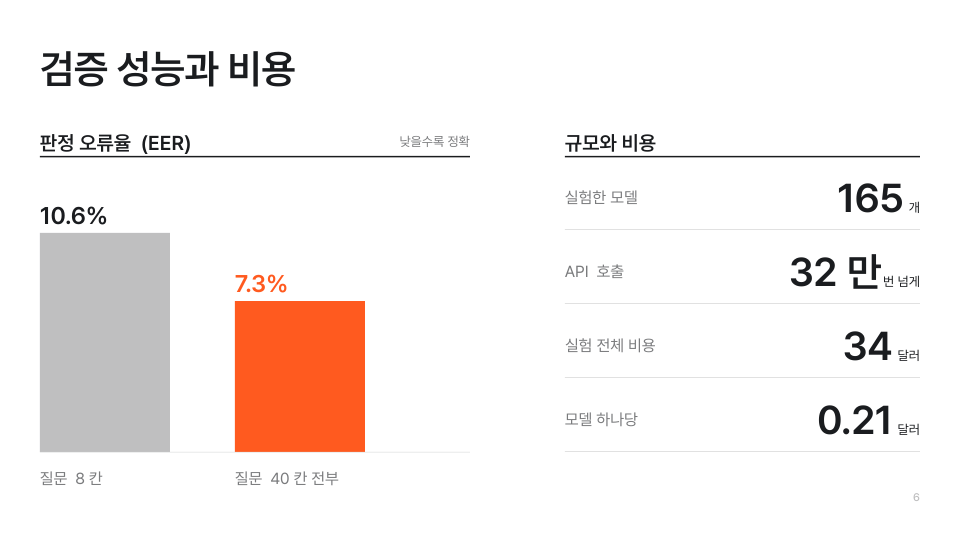
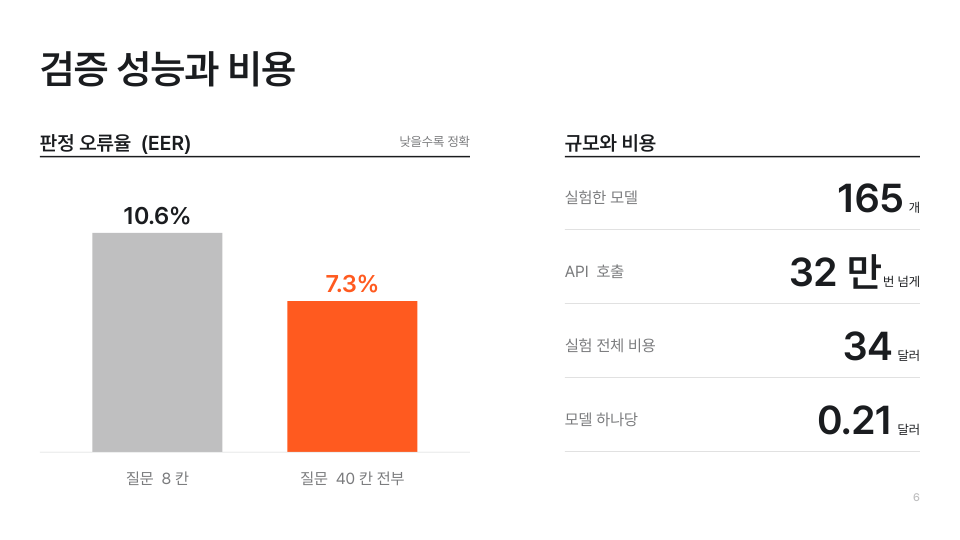
bars: centre the group and its labels; reconcile sees paragraph alignment
From the last design check of the GDGoC talk deck. The user had moved the
two EER bars off the left edge and centred the values over them; the names
under the bars were still left-aligned and the pair sat 0.30in/0.80in off
centre.

- bars: the bar group is centred in its column; value and name boxes are
  centred on each bar's axis and clipped at both chart edges (extends the
  right-edge clip from 4e81248 to the left side).
- lint_deck: chart- tags may be centre-aligned.
- reconcile.py: the deep fingerprint includes paragraph alignment. The
  user's switch of the bar values to centred alignment did not show up in
  it before and was only found by a raw XML diff.
- SKILL.md: notes from the final check (one caption register, no caption
  repeating the part divider, no data-free motif on dividers, avoid slogan
  shapes in body text too).

Claude-Session: https://claude.ai/code/session_01HRTwYzMt5EEeruZ5rPXrb7

Changed region(s): [[0.0312, 0.3852, 0.4375, 0.9185]]

diff --git a/scripts/build.py b/scripts/build.py
@@ -541,18 +541,23 @@ def bars(d, s, m, sl):
     n = len(items)
     bw = min(span_w(2), cw / (n * 1.5 - 0.5))
     gap = bw * 0.5
+    # 막대 묶음은 칸 가운데에 둔다 — 2026-10-27 사용자 편집(발표 덱 14쪽): 왼쪽 끝에 붙어 있던 막대를 안쪽으로 옮기고
+    # 값을 막대 가운데로 맞췄다. 막대가 칸을 다 채우면(옆 표 없이 5개 이상) 묶음 폭 = 칸 폭이라 그대로 왼쪽 끝에서 시작한다
+    gx = x0 + max(0.0, (cw - (n * bw + (n - 1) * gap)) / 2)
     for i, (it, v) in enumerate(zip(items, vals)):
-        x = x0 + i * (bw + gap)
+        x = gx + i * (bw + gap)
         h = max(0.0, v / vmax) * H
         on = hi is not None and i == hi
         d.bar(s, x, base - h, bw, h, "accent" if on else ("faint" if hi is not None else "muted"))
         txt = str(it.get("text") or (f"{it.get('value')}{it.get('unit', '')}"))
-        # 막대가 칸 폭을 다 채우면(옆 표 없이 5개 이상) 마지막 막대의 글 칸이 오른쪽 여백을 넘는다 — 칸 끝에서 자른다
-        tw_ = min(bw + gap * 0.9, x0 + cw - x)
-        d.text(s, "h2", x, base - h - lab_h, tw_, lab_h - 4, txt,
-               color="accent" if on else "figure", anchor="bottom", tag="chart-value")
-        d.text(s, "body", x, base + 8, tw_, 20, str(it.get("label", "")), color="muted",
-               tag="chart-cat")
+        # 값은 막대 위, 이름은 막대 아래 — 둘 다 막대 가운데 축에 맞춘다. 글 칸은 막대 축을 중심으로 좌우 같은 폭이고
+        # 칸 양 끝을 넘지 않게 자른다(4e81248 의 오른쪽 자르기를 왼쪽에도)
+        cx = x + bw / 2
+        half = min((bw + gap * 0.9) / 2, cx - x0, x0 + cw - cx)
+        d.text(s, "h2", cx - half, base - h - lab_h, 2 * half, lab_h - 4, txt,
+               color="accent" if on else "figure", align="center", anchor="bottom", tag="chart-value")
+        d.text(s, "body", cx - half, base + 8, 2 * half, 20, str(it.get("label", "")), color="muted",
+               align="center", tag="chart-cat")
     d.table_rule(s, x0, base, cw)
     if side:
         rows = [(r.get("label", ""), r.get("value", ""), r.get("unit")) for r in side.get("rows", [])]

diff --git a/scripts/reconcile.py b/scripts/reconcile.py
@@ -77,7 +77,14 @@ def dump_deep(path):
                 pass
             anchor, cols = "", []
             if sh.has_text_frame:
-                anchor = sh.text_frame._txBody.bodyPr.get("anchor") or "t"
+                # 세로 정렬 + 문단 가로 정렬. 가로 정렬만 바꾼 편집(막대 위 값을 가운데로, 2026-10-27)도 잡는다
+                algns = []
+                for para in sh.text_frame.paragraphs:
+                    pPr = para._p.pPr
+                    al = (pPr.get("algn") if pPr is not None else None) or "l"
+                    if para.text.strip() and (not algns or algns[-1] != al):
+                        algns.append(al)
+                anchor = (sh.text_frame._txBody.bodyPr.get("anchor") or "t") + ("|" + ",".join(algns) if algns else "")
                 for para in sh.text_frame.paragraphs:
                     for r in para.runs:
                         try:
@@ -108,7 +115,7 @@ def _deep_diff(a, b, label_a, label_b):
                 print(f"    {tag} s{i:02d} 노트 {extra[:60]!r}")
             else:
                 print(f"    {tag} s{i:02d} ({x:6},{y:6}) {w:6}x{h:5} 채움 {fill or '-':6} "
-                      f"정렬 {anchor or '-':3} 글자색 {cols or '-'} {('그림 ' + extra) if extra else ''}")
+                      f"정렬 {anchor or '-':7} 글자색 {cols or '-'} {('그림 ' + extra) if extra else ''}")
     print()
     return 1
 

diff --git a/scripts/lint_deck.py b/scripts/lint_deck.py
@@ -123,7 +123,7 @@ def main(path, spec_path=None):
                 # 위 배지 카드(badge_row)는 배지와 글을 한 덩어리로 가운데 세운다 — Dive topBadgeCard.
                 # 띠·마감 칸·카드 줄 아래 한 줄도 판 가운데 글이다
                 if b.get("align") == "center" and not b["tag"].startswith(
-                        ("badge-", "chip-", "row-", "band", "deadline-chip"))\
+                        ("badge-", "chip-", "row-", "band", "deadline-chip", "chart-"))\
                         and b["tag"] not in ("ring-label", "nest-conclusion", "foot"):
                     fail("ALIGN", f"s{n}: '{b['tag']}' 가운데 정렬 — 본문은 좌정렬이다")
                 if b["tag"] == "eyebrow" and b["y"] not in ok_y:
